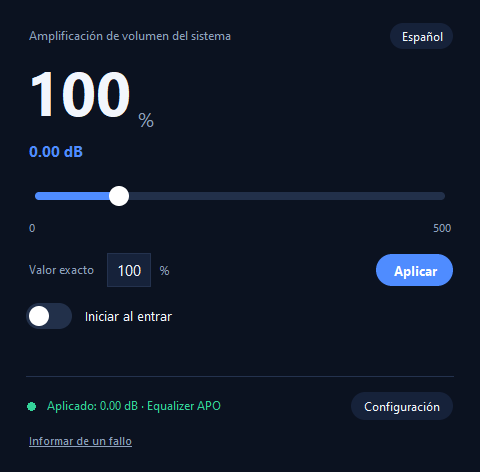
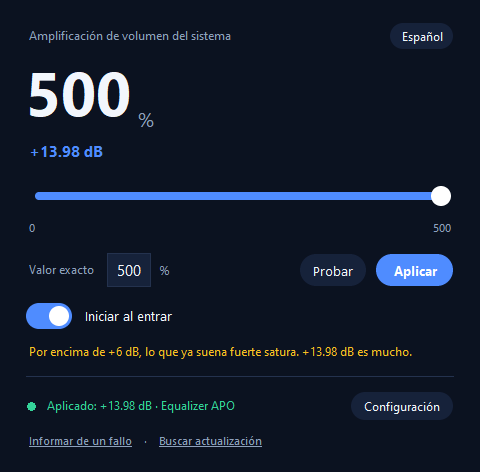
docs: refresh the screenshot and catch the README up to 1.4
The screenshot predated the Test button, the tray icon, the two links at the
bottom and the louder-state warning, so the first thing a visitor saw was a
version of the app that no longer exists.

Also fixed three claims that drifted:

- "One small window. No tray bloat" contradicted 1.2.0, which moved the app into
  the notification area on purpose.
- The update check was missing from the feature list even though it is the only
  network call the app makes.
- The Settings description implied the Enhancements row is always there. Since
  1.4.1 it only appears when Windows actually has the device blocked, which is
  the whole point of that change.

diff --git a/README.md b/README.md
@@ -49,7 +49,10 @@ music at the volume you want:** also 0 €.
 - **Zero added latency.** It does not capture, buffer or replay audio — Equalizer
   APO applies the gain in the existing path.
 - **Nine languages**, chosen automatically from your system language.
-- **One small window.** No tray bloat, no background service, no driver.
+- **Lives next to the clock.** One small window and a tray icon; no background
+  service, no driver, nothing running that you did not ask for.
+- **Tells you about new releases when you ask.** A *Check for updates* link, plus
+  an optional check at startup that is off by default.
 
 ### What it deliberately does not do
 
@@ -137,10 +140,12 @@ Click **Setup** and you get a real settings window, not a message box:
 - **Windows setup** — only what actually needs attention. With Equalizer APO
   missing you get one red row and a **Download** button; once it is installed that
   row disappears. With the APO attached, the row offers **Change** to open the
-  Configurator and pick other devices. The Enhancements row carries an **Open
-  Sound** button and the exact click path, because Windows has no way to open one
-  device's properties page directly. The reboot hint only appears while the APO is
-  not attached yet.
+  Configurator and pick other devices. If Windows has *Disable all enhancements*
+  ticked on that device, a red row says so and names it — Windows stores that flag
+  per endpoint, so the row disappears on its own once you untick it. The button
+  opens the Sound panel and the row carries the click path, because Windows has no
+  way to open one device's properties page directly. The reboot hint only appears
+  while the APO is not attached yet.
 - **Global hotkeys** — click a shortcut and press the combination you want; Esc
   cancels.
 - **Sound** — the slider preview tone and the loud-level warning.
